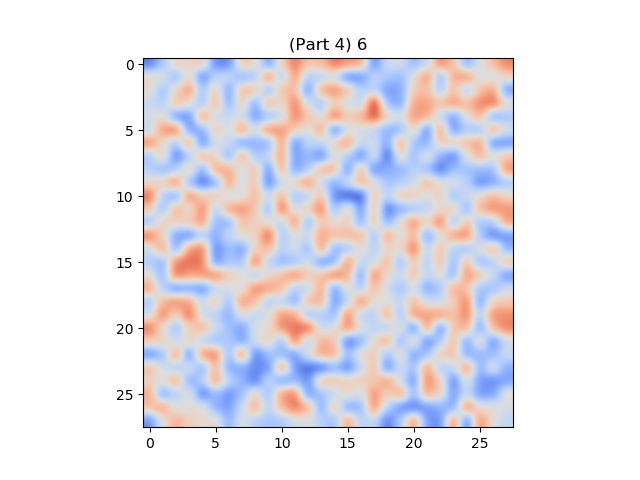
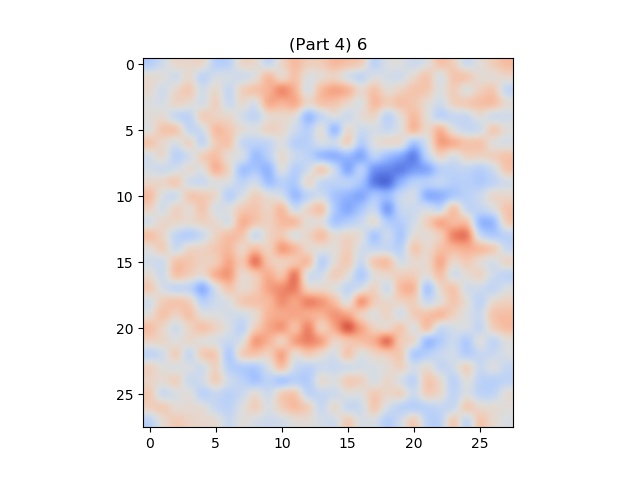
Images with larger training set

Changed region(s): [[0.2188, 0.125, 0.8125, 0.9062], [0.7812, 0.5625, 0.8125, 0.5938]]

diff --git a/Code/digits.py b/Code/digits.py
@@ -103,13 +103,13 @@ def part3():
     init_W = np.random.rand(28*28 + 1,10) # Randomly initialize weight matrix
     alpha = 1e-5
     eps = 1e-6
-    max_iter = 1000
-    num_images = 100 # Number of images per digit to use for training
+    max_iter = 50000
+    num_images = 1000 # Number of images per digit to use for training
     (W, history) = p4.part4_train(XTrain, YTrain, indicesTrain, num_images, alpha, 
                                   eps, max_iter, init_W)
     
     # Make predictions on test set
-    size = 10
+    size = 100
     (cost, correct) = p4.part4_classify(XTest, YTest, W, size)
     
     # Plot learning curves

diff --git a/Code/part4.py b/Code/part4.py
@@ -238,6 +238,7 @@ def part4_plotLearningCurves(history):
     plt.xlabel('Iterations')
     plt.title('Training Set Learning Curve')
     plt.show()
+    plt.gcf().clear()
     
 def part4_plotWeights(W, indices, imagePath):
     '''
